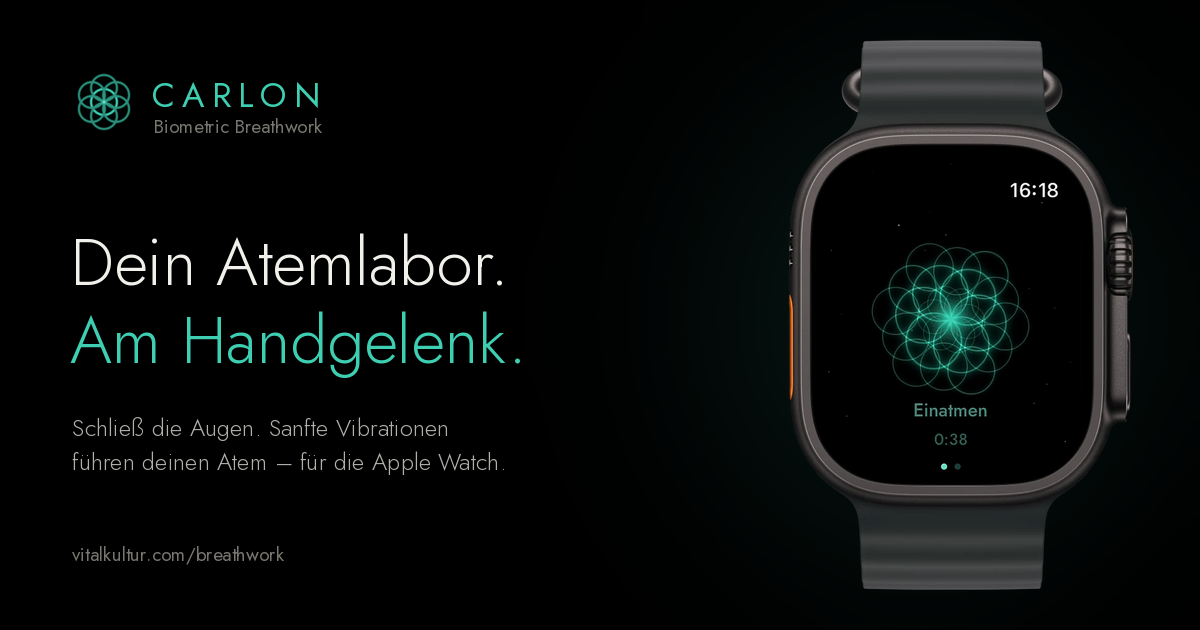
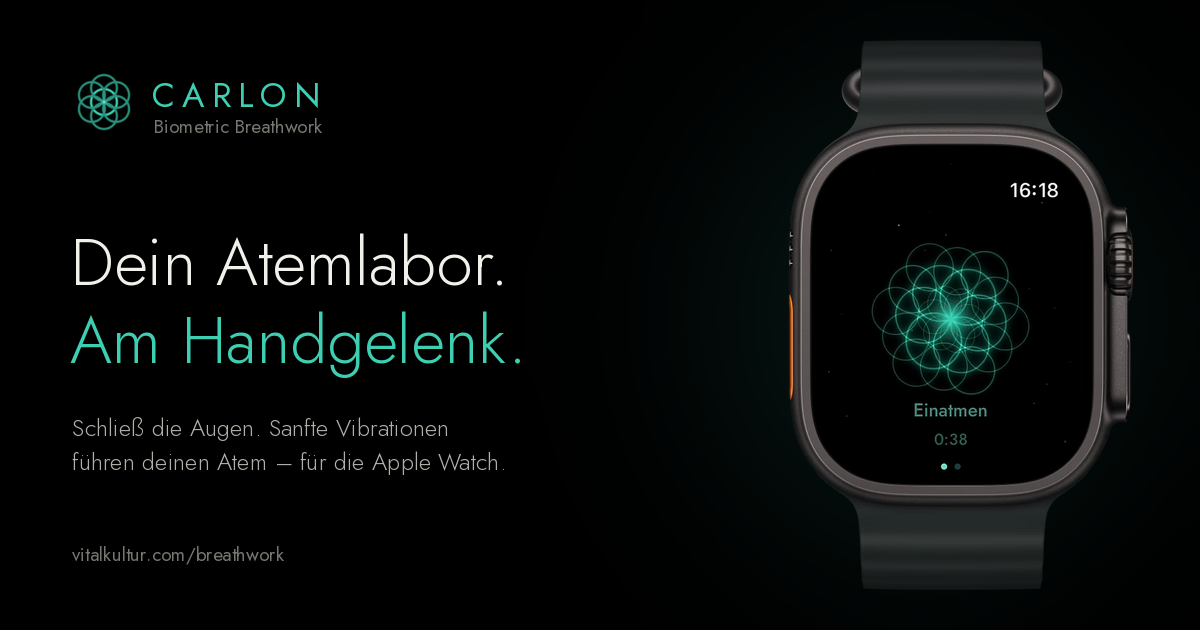
Breathwork: Bandenden der Uhr weich ins Seitenschwarz, Linkvorschau ebenso
Nur per CSS über Apples unverändertem Ultra-Gehäusebild, nur 0–15 % / 85–100 % der Höhe (Gehäuse,
Hörner und Display unberührt) – mit einer Zeile wieder entfernbar (Jan nach Recherche zu Apples
„as is“-Regel). og:image mit denselben Bandenden.

Claude-Session: https://claude.ai/code/session_017FwWe4kkzgBzu5cqoj5Xmm

Changed region(s): [[0.7092, 0.0603, 0.8942, 0.1206], [0.7092, 0.8746, 0.8942, 0.9349]]

diff --git a/breathwork/de/index.html b/breathwork/de/index.html
@@ -648,7 +648,10 @@ document.head.appendChild(s);})();</script>
     #praxis > .wrap > .sub { text-align: center; margin-left: auto; margin-right: auto; max-width: 34em; text-wrap: balance; }
     #teilen .label, #teilen .riesig, #teilen > .wrap > .sub { text-align: center; margin-left: auto; margin-right: auto; }
     /* Bänder in voller Länge, nur das äußerste Ende blendet weich aus (Jan 30.10.: „dunkle Verläufe auf den Bändern nicht edel“) */
-    /* Apple-Gehäuse „as is“ – kein Ausblenden des Armbands (01.11.2026, Apple-Marketingrichtlinien: nicht beschneiden oder verdecken) */
+    /* Bandenden weich ins Seitenschwarz (01.11.2026, Jan nach Recherche: Apple verlangt Bezels „as is“, auf der eigenen Seite mit
+       schwarzem Grund gelebte Praxis). NUR die Bandenden (0–15 % / 85–100 % der Bildhöhe) – Gehäuse, Hörner und Display bleiben
+       unberührt; das Bild selbst ist unverändert, eine CSS-Zeile nimmt es wieder heraus. */
+    .at-uhr .at-bezel, .k-dia .at-uhr .at-bezel { -webkit-mask-image: linear-gradient(to bottom, rgba(0,0,0,0) 0%, rgba(0,0,0,.18) 3%, rgba(0,0,0,.5) 7%, rgba(0,0,0,.82) 11%, #000 15%, #000 85%, rgba(0,0,0,.82) 89%, rgba(0,0,0,.5) 93%, rgba(0,0,0,.18) 97%, rgba(0,0,0,0) 100%) !important; mask-image: linear-gradient(to bottom, rgba(0,0,0,0) 0%, rgba(0,0,0,.18) 3%, rgba(0,0,0,.5) 7%, rgba(0,0,0,.82) 11%, #000 15%, #000 85%, rgba(0,0,0,.82) 89%, rgba(0,0,0,.5) 93%, rgba(0,0,0,.18) 97%, rgba(0,0,0,0) 100%) !important; }
     /* Sensoren: ein ruhiges Paar, Ränder laufen ins Seitenschwarz aus (Jan: Pfeilzeile „ultra billig“) */
     .forschung-export { max-width: 760px; margin: var(--s89) auto 0; text-align: left; }
     .forschung-export h3 { font-size: clamp(28px, 3.2vw, 40px); font-weight: 300; line-height: 1.2; margin-top: var(--s8); text-wrap: balance; }

diff --git a/breathwork/index.html b/breathwork/index.html
@@ -648,7 +648,10 @@ document.head.appendChild(s);})();</script>
     #praxis > .wrap > .sub { text-align: center; margin-left: auto; margin-right: auto; max-width: 34em; text-wrap: balance; }
     #teilen .label, #teilen .riesig, #teilen > .wrap > .sub { text-align: center; margin-left: auto; margin-right: auto; }
     /* Bänder in voller Länge, nur das äußerste Ende blendet weich aus (Jan 30.10.: „dunkle Verläufe auf den Bändern nicht edel“) */
-    /* Apple-Gehäuse „as is“ – kein Ausblenden des Armbands (01.11.2026, Apple-Marketingrichtlinien: nicht beschneiden oder verdecken) */
+    /* Bandenden weich ins Seitenschwarz (01.11.2026, Jan nach Recherche: Apple verlangt Bezels „as is“, auf der eigenen Seite mit
+       schwarzem Grund gelebte Praxis). NUR die Bandenden (0–15 % / 85–100 % der Bildhöhe) – Gehäuse, Hörner und Display bleiben
+       unberührt; das Bild selbst ist unverändert, eine CSS-Zeile nimmt es wieder heraus. */
+    .at-uhr .at-bezel, .k-dia .at-uhr .at-bezel { -webkit-mask-image: linear-gradient(to bottom, rgba(0,0,0,0) 0%, rgba(0,0,0,.18) 3%, rgba(0,0,0,.5) 7%, rgba(0,0,0,.82) 11%, #000 15%, #000 85%, rgba(0,0,0,.82) 89%, rgba(0,0,0,.5) 93%, rgba(0,0,0,.18) 97%, rgba(0,0,0,0) 100%) !important; mask-image: linear-gradient(to bottom, rgba(0,0,0,0) 0%, rgba(0,0,0,.18) 3%, rgba(0,0,0,.5) 7%, rgba(0,0,0,.82) 11%, #000 15%, #000 85%, rgba(0,0,0,.82) 89%, rgba(0,0,0,.5) 93%, rgba(0,0,0,.18) 97%, rgba(0,0,0,0) 100%) !important; }
     /* Sensoren: ein ruhiges Paar, Ränder laufen ins Seitenschwarz aus (Jan: Pfeilzeile „ultra billig“) */
     .forschung-export { max-width: 760px; margin: var(--s89) auto 0; text-align: left; }
     .forschung-export h3 { font-size: clamp(28px, 3.2vw, 40px); font-weight: 300; line-height: 1.2; margin-top: var(--s8); text-wrap: balance; }
